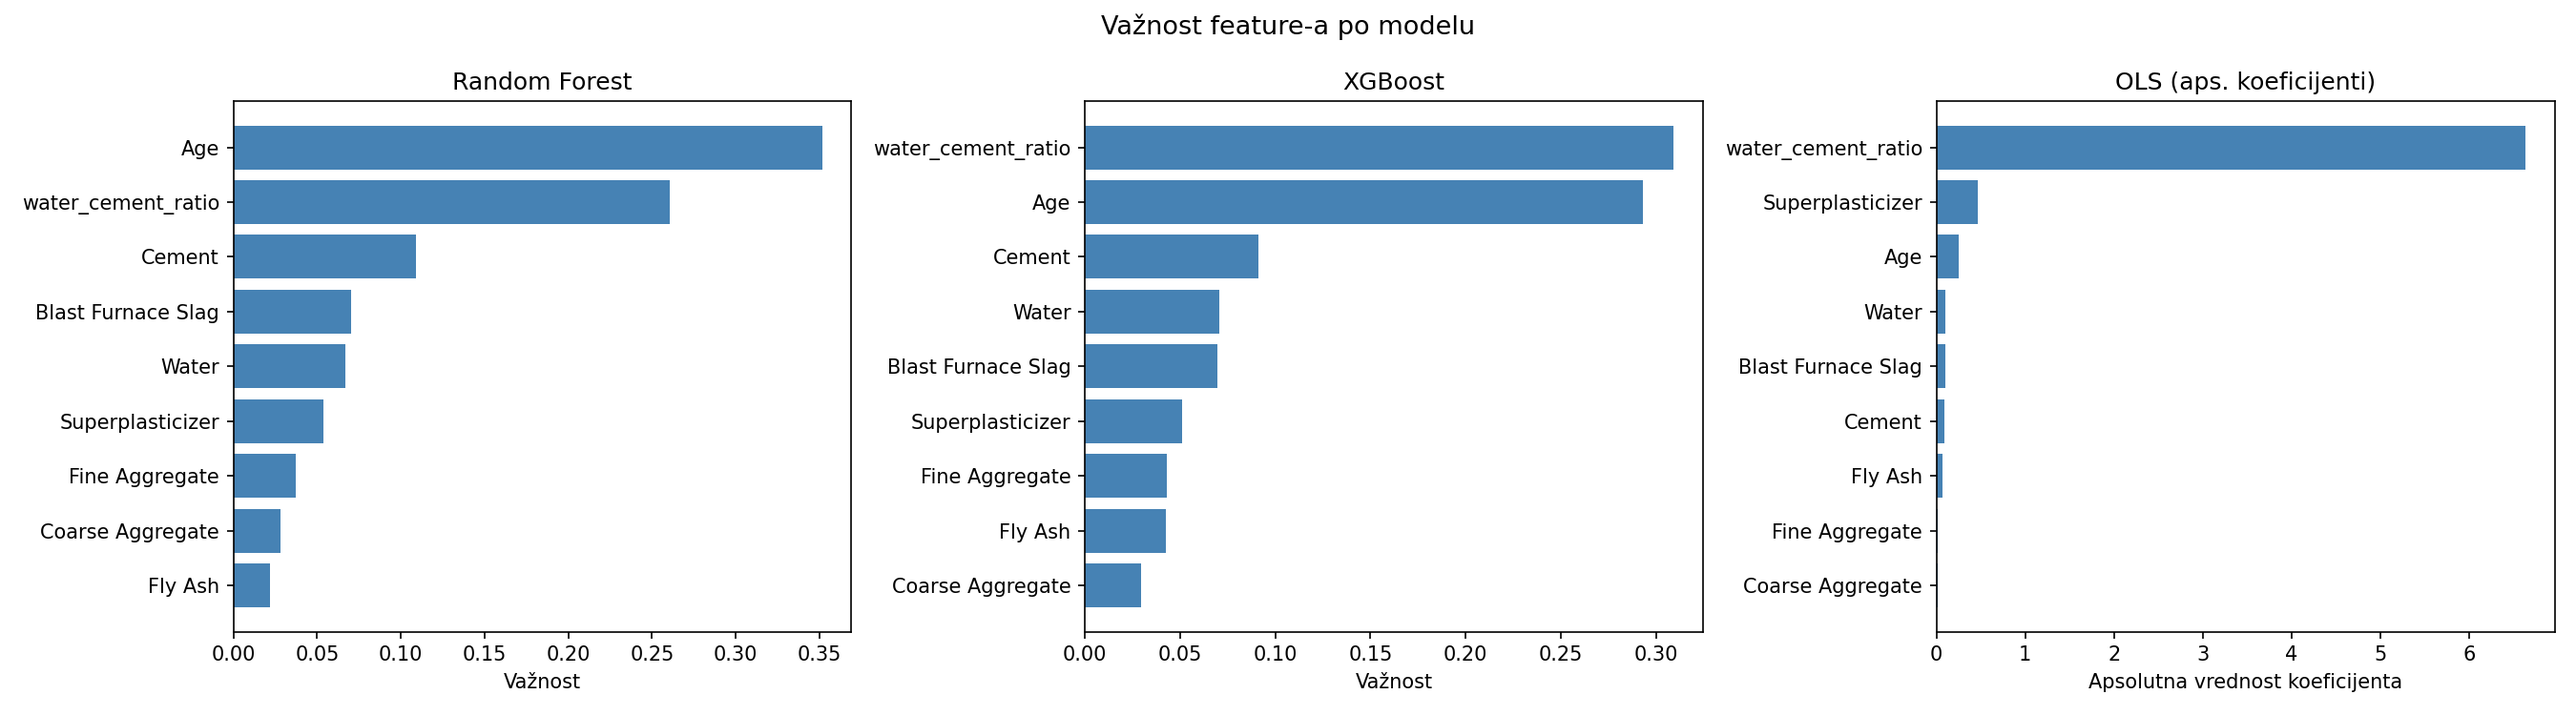
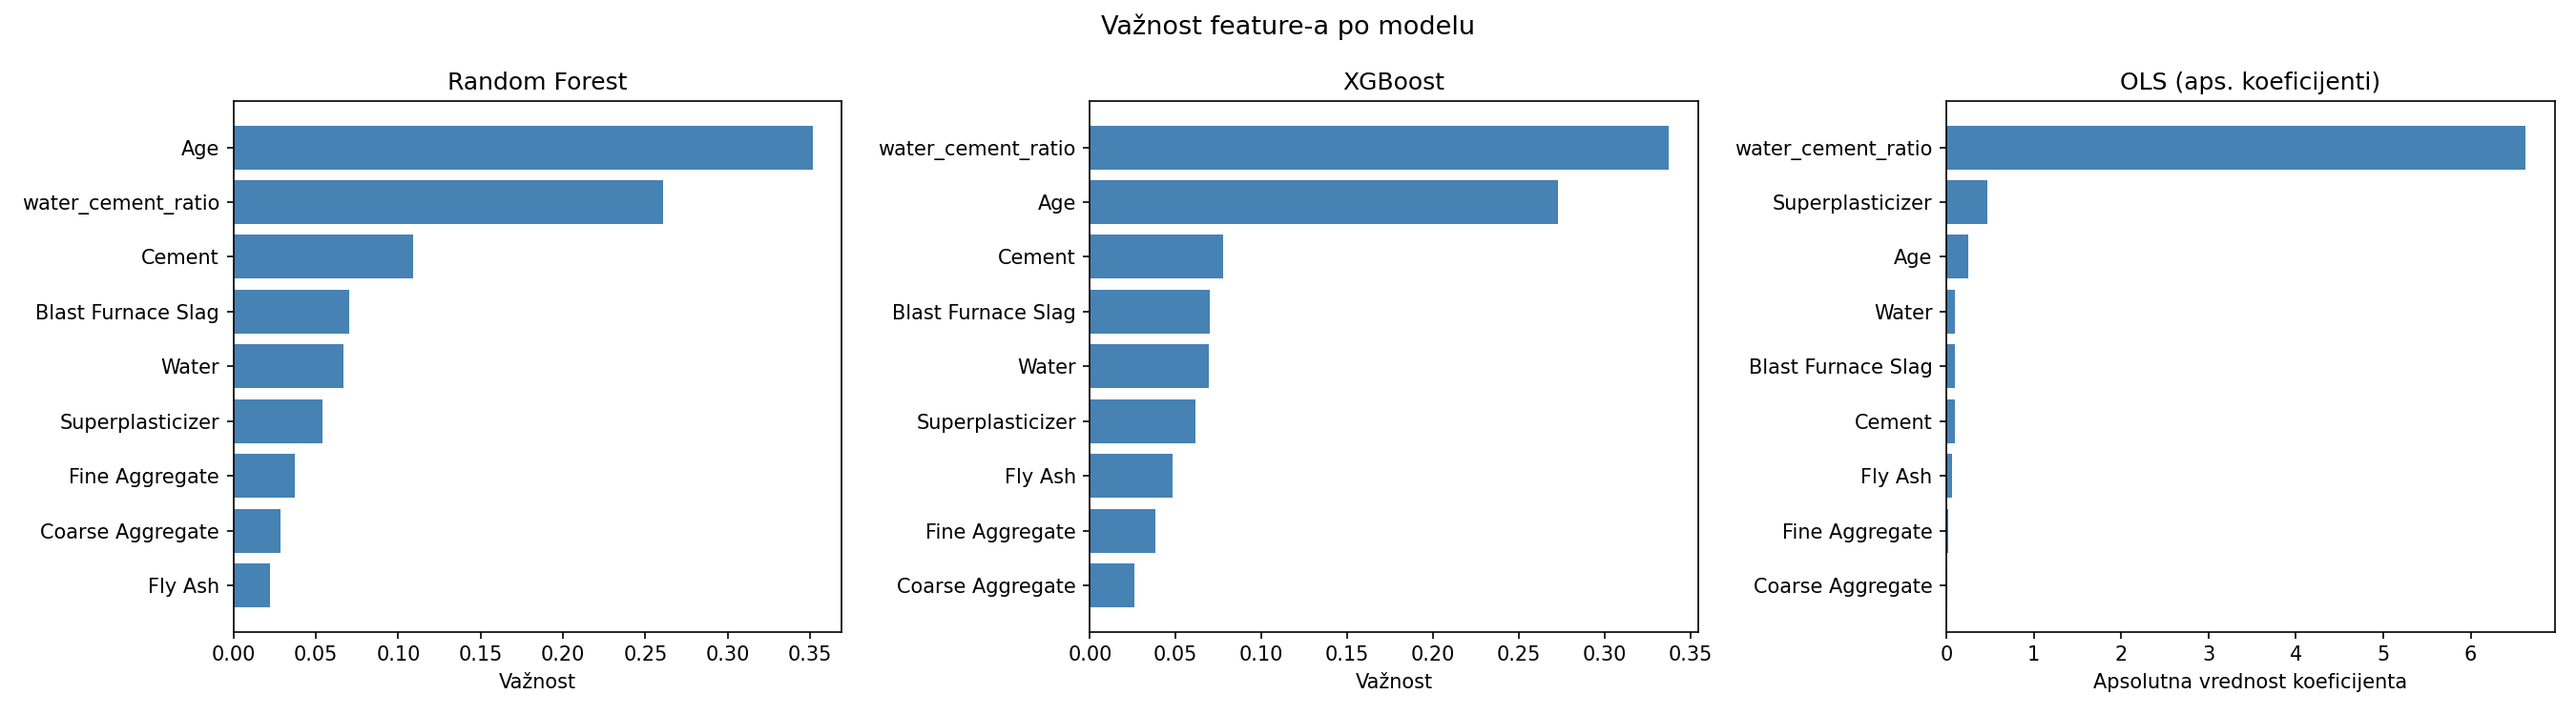
Add README.md and improve the notebook
Add README.md with a description of the project structure, .gitignore, and an improved, more detailed description of how capping is applied.

diff --git a/README.md b/README.md
@@ -1,0 +1,70 @@
+# Predikcija čvrstoće betona
+
+Projekat predviđa pritisnu čvrstoću betona (MPa) na osnovu sastava mešavine i starosti, koristeći tri modela: OLS linearnu regresiju, Random Forest i XGBoost.
+
+## Istraživačka pitanja
+
+1. Koji sastojci mešavine najviše utiču na čvrstoću?
+2. Da li je linearna regresija dovoljna, ili su neophodni nelinearni modeli?
+3. Koji sastav i starost betona daju optimalnu predviđenu čvrstoću?
+
+## Podaci
+
+Dataset sadrži **1.030 uzoraka** sa 8 ulaznih karakteristika i ciljnom promenljivom:
+
+| Karakteristika | Opis |
+|---|---|
+| Cement | kg/m³ |
+| Blast Furnace Slag | kg/m³ |
+| Fly Ash | kg/m³ |
+| Water | kg/m³ |
+| Superplasticizer | kg/m³ |
+| Coarse Aggregate | kg/m³ |
+| Fine Aggregate | kg/m³ |
+| Age | dani (1–365) |
+| **Strength** | **MPa — ciljna promenljiva** |
+
+Inženjering karakteristika dodaje `water_cement_ratio = Water / Cement` (Abrams-ov zakon).
+
+## Rezultati modela (test skup)
+
+| Model | RMSE | MAE | MAPE |
+|-------|------|-----|------|
+| OLS | 9.37 | 7.14 | 24.21% |
+| Random Forest | 6.17 | 4.26 | 14.26% |
+| **XGBoost** | **5.49** | **3.71** | **11.73%** |
+
+XGBoost nadmašuje OLS za ~41% po RMSE. OLS pretpostavke su narušene (nelinearnost, nenormalnost reziduala), što opravdava korišćenje nelinearnih modela.
+
+## Struktura projekta
+
+```
+├── data/
+│   └── concrete_data.csv      # dataset
+├── src/
+│   ├── preprocessing.py       # učitavanje, feature engineering, podela skupa
+│   ├── models.py              # treniranje OLS, RF, XGBoost (GridSearchCV)
+│   ├── evaluation.py          # metrike (RMSE, MAE, MAPE) i pokretanje pipeline-a
+│   ├── validation.py          # provera pretpostavki OLS modela
+│   └── visualization.py       # generisanje grafika
+├── figures/                   # generisani PNG grafici
+└── notebook.ipynb             # kompletna analiza sa narativom
+```
+
+## Pokretanje
+
+```bash
+pip install -r requirements.txt
+
+# Kompletan pipeline: treniranje sva tri modela + grafici
+python src/evaluation.py
+
+# OLS dijagnostika pretpostavki
+python src/validation.py
+
+# Samo generisanje grafika
+python src/visualization.py
+
+# Interaktivna analiza
+jupyter notebook notebook.ipynb
+```
